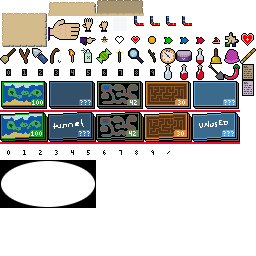
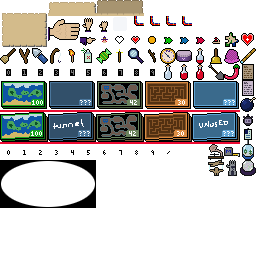
placeholders for the last 10 items, ready to implement

Changed region(s): [[0.8125, 0.375, 1.0, 0.6875]]

diff --git a/src/game/inventory.c b/src/game/inventory.c
@@ -275,6 +275,87 @@ static const struct item_detail item_detailv[]={
     .inventoriable=1,
     .fld16=0,
   },
+  [NS_itemid_bomb]={
+    .tileid=0x6f,
+    .hand_tileid=0x96,
+    .strix_name=67,
+    .strix_help=68,
+    .initial_limit=10,
+    .inventoriable=1,
+    .fld16=0,
+  },
+  [NS_itemid_stopwatch]={
+    .tileid=0x7f,
+    .hand_tileid=0x97,
+    .strix_name=69,
+    .strix_help=70,
+    .initial_limit=0,
+    .inventoriable=1,
+    .fld16=0,
+  },
+  [NS_itemid_busstop]={
+    .tileid=0x8f,
+    .hand_tileid=0x98,
+    .strix_name=71,
+    .strix_help=72,
+    .initial_limit=0,
+    .inventoriable=1,
+    .fld16=0,
+  },
+  [NS_itemid_snowglobe]={
+    .tileid=0x9f,
+    .hand_tileid=0x99,
+    .strix_name=73,
+    .strix_help=74,
+    .initial_limit=0,
+    .inventoriable=1,
+    .fld16=0,
+  },
+  [NS_itemid_tapemeasure]={
+    .tileid=0x9e,
+    .hand_tileid=0x9a,
+    .strix_name=75,
+    .strix_help=76,
+    .initial_limit=0,
+    .inventoriable=1,
+    .fld16=0,
+  },
+  [NS_itemid_phonograph]={
+    .tileid=0x9d,
+    .hand_tileid=0x9b,
+    .strix_name=77,
+    .strix_help=78,
+    .initial_limit=0,
+    .inventoriable=1,
+    .fld16=0,
+  },
+  [NS_itemid_crystal]={
+    .tileid=0xaf,
+    .hand_tileid=0x9c,
+    .strix_name=79,
+    .strix_help=80,
+    .initial_limit=0,
+    .inventoriable=1,
+    .fld16=0,
+  },
+  [NS_itemid_glove]={
+    .tileid=0xae,
+    .hand_tileid=0x9d,
+    .strix_name=81,
+    .strix_help=82,
+    .initial_limit=0,
+    .inventoriable=1,
+    .fld16=0,
+  },
+  [NS_itemid_marionette]={
+    .tileid=0xad,
+    .hand_tileid=0x9e,
+    .strix_name=83,
+    .strix_help=84,
+    .initial_limit=0,
+    .inventoriable=1,
+    .fld16=0,
+  },
 };
 
 /* Get item reporting.

diff --git a/src/game/activity/activity_cheat.c b/src/game/activity/activity_cheat.c
@@ -41,11 +41,22 @@ void begin_cheat_store(struct sprite *initiator,int arg) {
         modal_shop_add_item(modal,NS_itemid_redfish,0,10);
         modal_shop_add_item(modal,NS_itemid_heart,0,10);
         modal_shop_add_item(modal,NS_itemid_pepper,0,10);
+        modal_shop_add_item(modal,NS_itemid_bomb,0,10);
       } break;
     case 3: {
         modal_shop_add_item(modal,NS_itemid_stick,0,1);
         modal_shop_add_item(modal,NS_itemid_heartcontainer,0,1);
         modal_shop_add_item(modal,NS_itemid_barrelhat,0,1);
+      } break;
+    case 4: { // Logically these belong in group 1, but there's too many.
+        modal_shop_add_item(modal,NS_itemid_stopwatch,0,1);
+        modal_shop_add_item(modal,NS_itemid_busstop,0,1);
+        modal_shop_add_item(modal,NS_itemid_snowglobe,0,1);
+        modal_shop_add_item(modal,NS_itemid_tapemeasure,0,1);
+        modal_shop_add_item(modal,NS_itemid_phonograph,0,1);
+        modal_shop_add_item(modal,NS_itemid_crystal,0,1);
+        modal_shop_add_item(modal,NS_itemid_glove,0,1);
+        modal_shop_add_item(modal,NS_itemid_marionette,0,1);
       } break;
   }
 }

diff --git a/src/game/shared_symbols.h b/src/game/shared_symbols.h
@@ -146,6 +146,15 @@
 #define NS_itemid_letter2 28 /* ...improved */
 #define NS_itemid_letter3 29 /* red to blue */
 #define NS_itemid_letter4 30 /* ...improved */
+#define NS_itemid_bomb 31
+#define NS_itemid_stopwatch 32
+#define NS_itemid_busstop 33
+#define NS_itemid_snowglobe 34
+#define NS_itemid_tapemeasure 35
+#define NS_itemid_phonograph 36
+#define NS_itemid_crystal 37
+#define NS_itemid_glove 38
+#define NS_itemid_marionette 39
 #define FOR_EACH_itemid \
   _(stick) \
   _(broom) \
@@ -176,7 +185,16 @@
   _(letter1) \
   _(letter2) \
   _(letter3) \
-  _(letter4)
+  _(letter4) \
+  _(bomb) \
+  _(stopwatch) \
+  _(busstop) \
+  _(snowglobe) \
+  _(tapemeasure) \
+  _(phonograph) \
+  _(crystal) \
+  _(glove) \
+  _(marionette)
 
 /* NPC activities are hard-coded. Select one from this list.
  */
